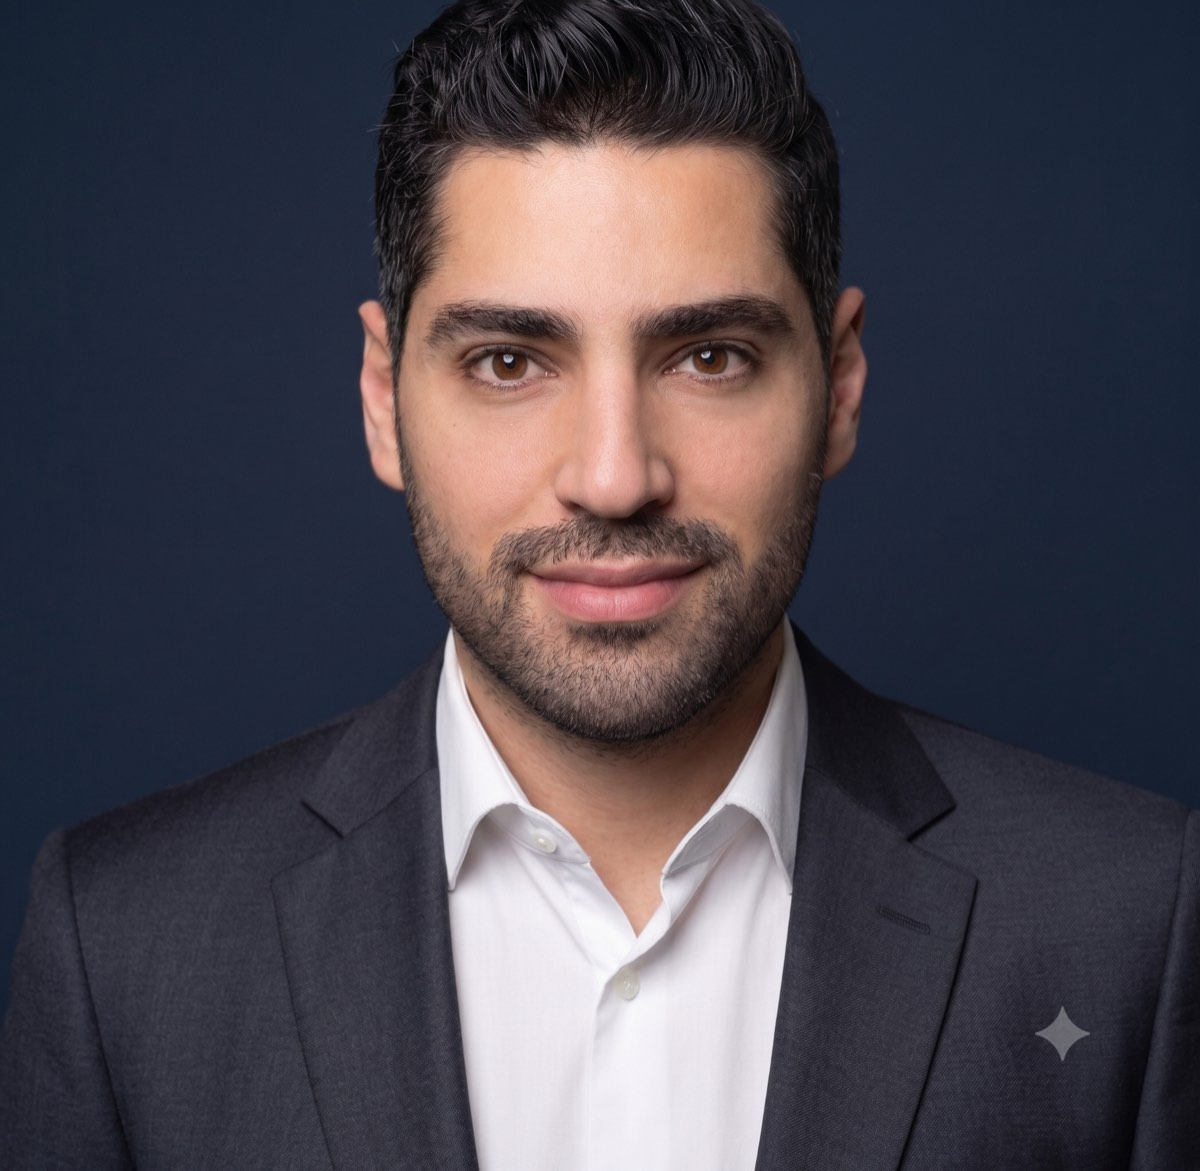
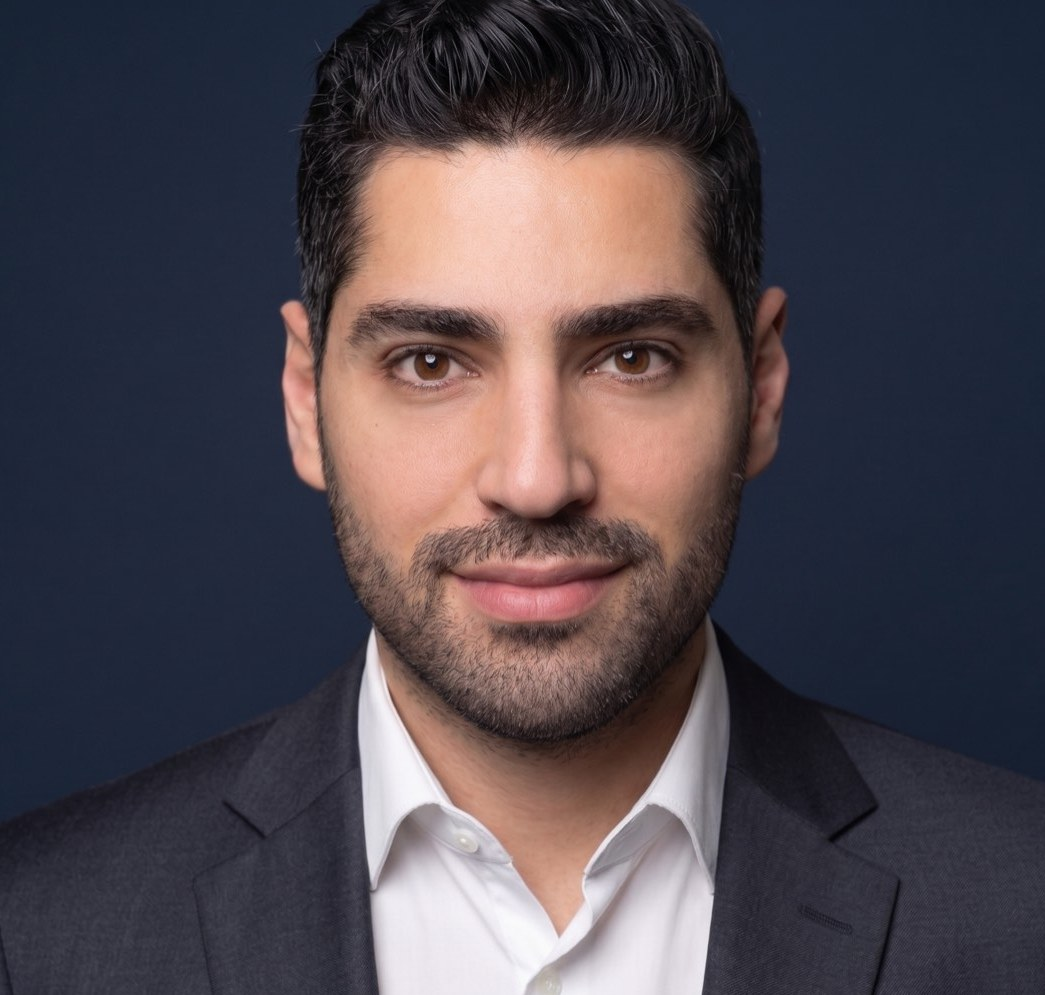
Accueil : logs plus nets, filigranes retirés, double inscription Me Hinderer
- Photo « logs annotés » (pourquoi nous, carte 1) remplacée par la version
  plus nette fournie ; même nom de fichier, cache .next purgé.
- Filigrane Gemini retiré des portraits d'Alexandre Lazarègue, Amir Ben Majed
  et Khalid Sookia : recadrage des fichiers sources (bas rogné sous la marque),
  ratio ~1,05 conservé, visage centré, aucun calque ni dégradé. Sarah Hinderer
  et Nadia Abchiche-Mimouni ne portaient pas la marque.
- Me Sarah Hinderer : intitulé « Avocate aux barreaux de Paris et de Montréal »
  partout (accueil, section équipe, page Le cabinet, balisage JSON-LD, page
  RGPD, page escroquerie) + attribut alt du portrait mis à jour.
- Carte 2 « pourquoi nous » : texte complété pour mentionner la double
  inscription (dossiers transatlantiques).
- Config : devIndicators désactivé (appliqué au redémarrage).

diff --git a/app/nos-domaines/avocat-escroquerie-fraude/page.tsx b/app/nos-domaines/avocat-escroquerie-fraude/page.tsx
@@ -406,10 +406,10 @@ export default function Page() {
               </div>
               <div>
                 <figure>
-                  <Image src="/images/equipe/sarah-hinderer.webp" alt="Portrait de Me Sarah Hinderer, avocate au barreau de Paris" fill sizes="(max-width: 820px) 100vw, 33vw" style={{ objectFit: "cover", objectPosition: "center top" }} />
+                  <Image src="/images/equipe/sarah-hinderer.webp" alt="Portrait de Me Sarah Hinderer, avocate aux barreaux de Paris et de Montréal" fill sizes="(max-width: 820px) 100vw, 33vw" style={{ objectFit: "cover", objectPosition: "center top" }} />
                 </figure>
                 <div className={styles.teamBody}>
-                  <p className={styles.role}>avocate au barreau de paris</p>
+                  <p className={styles.role}>avocate aux barreaux de paris et de montréal</p>
                   <h3>Sarah Hinderer</h3>
                   <p>Suit les dossiers de fraude bancaire et d'escroquerie, de la constitution du dossier de preuve au suivi des plaintes et du lien avec les services d'enquête.</p>
                 </div>

diff --git a/app/page.tsx b/app/page.tsx
@@ -40,7 +40,7 @@ export const metadata: Metadata = {
  */
 const EQUIPE = [
   { nom: "Alexandre Lazarègue", intitule: "Avocat au barreau de Paris", domaine: "Cybercriminalité & gestion de crise" },
-  { nom: "Sarah Hinderer", intitule: "Avocate au barreau de Paris", domaine: "Données personnelles & intelligence artificielle" },
+  { nom: "Sarah Hinderer", intitule: "Avocate aux barreaux de Paris et de Montréal", domaine: "Données personnelles & intelligence artificielle" },
   { nom: "Amir Ben Majed", intitule: "Avocat au barreau de l'Essonne", domaine: "Contrats IT & contentieux technologiques" },
   { nom: "Khalid Sookia", intitule: "Notre consultant technique — cybersécurité", domaine: "Investigation numérique" },
   { nom: "Nadia Abchiche-Mimouni", intitule: "Experte indépendante", domaine: "Intelligence artificielle & éthique algorithmique" },

diff --git a/components/home/section-differenciateurs.tsx b/components/home/section-differenciateurs.tsx
@@ -749,7 +749,7 @@ const CARDS: DifferentiateurCard[] = [
     imageAlt:
       "Schéma d'architecture de traitement de données dessiné au tableau, annoté de références juridiques",
     title: "Une équipe juridique et technique",
-    text: "Avocats et experts en cybersécurité confrontent l'analyse juridique aux réalités techniques du dossier, de la preuve numérique à l'architecture des systèmes.",
+    text: "Avocats et experts en cybersécurité confrontent l'analyse juridique aux réalités techniques du dossier. Une double inscription aux barreaux de Paris et de Montréal complète cette approche sur les dossiers transatlantiques.",
   },
   {
     imageSrc: "/images/pourquoi-nous/plaque-tilsitt.webp",

diff --git a/components/home/section-equipe.tsx b/components/home/section-equipe.tsx
@@ -40,11 +40,11 @@ const TEAM_MEMBERS: TeamMember[] = [
   },
   {
     fullName: "Sarah Hinderer",
-    statut: "Avocate au barreau de Paris",
+    statut: "Avocate aux barreaux de Paris et de Montréal",
     avocat: true,
     role: "Données personnelles & intelligence artificielle",
     photoBase: "/images/equipe/sarah-hinderer.webp",
-    portraitAlt: "Portrait de Me Sarah Hinderer, avocate au barreau de Paris",
+    portraitAlt: "Portrait de Me Sarah Hinderer, avocate aux barreaux de Paris et de Montréal",
     // Portrait buste sur fond bleu : ancrage haut pour ne pas couper au menton.
     positionBase: "center top",
     photoHover: "/images/sarah-cool.jpg",

diff --git a/app/le-cabinet/data/contenu.ts b/app/le-cabinet/data/contenu.ts
@@ -106,7 +106,7 @@ export const EQUIPE: Intervenant[] = [
   },
   {
     slug: "sarah",
-    eyebrow: "Avocate au barreau de Paris · données personnelles",
+    eyebrow: "Avocate aux barreaux de Paris et de Montréal · données personnelles",
     nom: "Sarah Hinderer",
     bio: "Elle accompagne les entreprises sur la protection des données personnelles et les enjeux data des opérations et des levées de fonds — de la cartographie des traitements jusqu'à la due diligence. Elle traite le RGPD comme un système de preuve.",
     meta: [

diff --git a/app/nos-domaines/rgpd-donnees/RgpdClient.tsx b/app/nos-domaines/rgpd-donnees/RgpdClient.tsx
@@ -2218,7 +2218,7 @@ export default function RgpdClient() {
             >
               <Image
                 src="/images/equipe/sarah-hinderer.webp"
-                alt="Portrait de Me Sarah Hinderer, avocate au barreau de Paris"
+                alt="Portrait de Me Sarah Hinderer, avocate aux barreaux de Paris et de Montréal"
                 fill
                 sizes="(max-width: 767px) 100vw, 240px"
                 style={{ objectFit: "cover", objectPosition: "center top" }}

diff --git a/app/le-cabinet/page.tsx b/app/le-cabinet/page.tsx
@@ -72,7 +72,7 @@ const AVOCATS = [
   {
     slug: "sarah-hinderer",
     name: "Sarah Hinderer",
-    jobTitle: "Avocate au barreau de Paris",
+    jobTitle: "Avocate aux barreaux de Paris et de Montréal",
     knowsAbout: ["RGPD", "Protection des données", "Due diligence"],
   },
 ];
